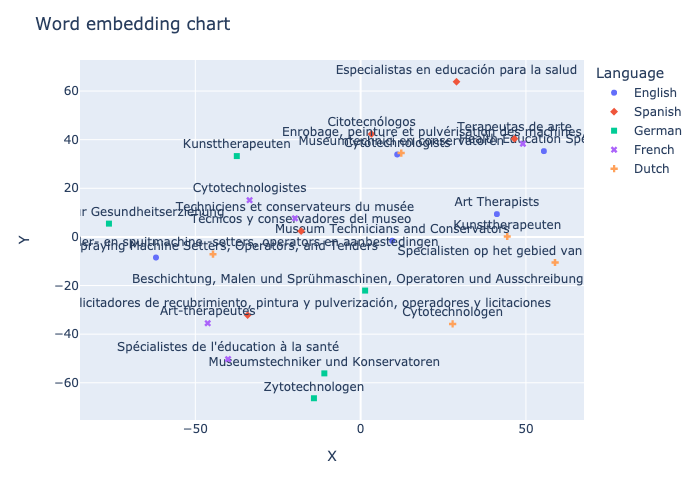
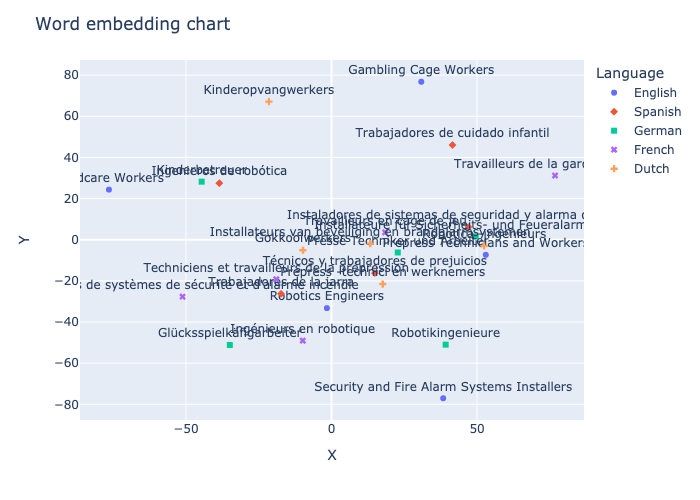
Multi universal sentence embeddings error rectified

diff --git a/project/main.py b/project/main.py
@@ -1,10 +1,39 @@
-from project import *
-from project.src.evaluation import cluster_distributional_analysis
-from project.utils.data_operations import get_data_from_file
+import pandas as pd
+from tensorflow.python.keras.utils.np_utils import to_categorical
+import tensorflow_hub as hub
 
+from project import *
+from project.src import data_preprocessing
+from project.src.evaluation import cluster_distributional_analysis
+from project.src.load_embeddings import Vectors
+from project.src.model_building import Model_Building
+from project.src.training_and_evaluation import train
+from project.utils.data_operations import get_data_from_file
+from project.utils.plotting import visualize_word_vectors, get_sample_index
+
+print("-------Data preprocessing stated------")
+
+#data_preprocessing.preprocess_data("project/data/Occupation Data.xlsx","project/data/Job Zones.xlsx")
+
+print("----- New file created after preprocessing --------" )
+
+
+print("Visualize word embeddings in 2-D space")
+index =  get_sample_index()
+visualize_word_vectors("Multi_Bert","title",index)
+visualize_word_vectors("Xlmr_Bert","title",index)
+visualize_word_vectors("M_USE","title",index)
+visualize_word_vectors("MDistill","title",index)
+#visualize_word_vectors("Multi_Bert","description",index)
+#visualize_word_vectors("Xlmr_Bert","description",index)
+#visualize_word_vectors("M_USE","description",index)
+#visualize_word_vectors("MDistill","description",index)
+
+
+print("-------Started Multi cluster analysis of Embeddings----------")
 #### Multi cluster distribution Analysis
 
-for model in models:
+'''for model in models:
     title = []
     description =[]
     for lang in langauges:
@@ -18,23 +47,21 @@ for model in models:
         title.append(t)
         description.append(des)
 
+    cluster_distributional_analysis(title,10,model,"Title","spectral")
+    cluster_distributional_analysis(description,10,model,"Description","spectral")
+
     cluster_distributional_analysis(title,10,model,"Title")
-    cluster_distributional_analysis(description,15,model,"Description")
-'''print("-------Data preprocessing stated------")
+    cluster_distributional_analysis(description,10,model,"Description")'''
 
-#data_preprocessing.preprocess_data("project/data/Occupation Data.xlsx","project/data/Job Zones.xlsx")
-
-print("----- New file created after preprocessing --------" )
-
-print("Visualize word embeddings in 2-D space")
-df = pd.read_csv("/Users/harsharenkila/PycharmProjects/ANLP/project/embeddings/FastText_dutch_data.csv")
-index = df.sample(5, replace=False).index
-del df
-visualize_word_vectors("Multi_Bert","title",index)
-visualize_word_vectors("Xlmr_Bert","title",index)
-visualize_word_vectors("MUSE","title",index)
-
-print("----------------Model Architecture defining---------------- ")
+print("-------completed------")
+'''embed = hub.load("https://tfhub.dev/google/universal-sentence-encoder-multilingual/3")
+english_sentences = ["dog", "Puppies are nice.", "I enjoy taking long walks along the beach with my dog."]
+en_result = embed(english_sentences)
+print(en_result)'''
+#model = Vectors("sadakmed/distiluse-base-multilingual-cased-v1","harsha the great")
+#model.load_sentence_transformer_model()
+#print(model.encode_text())
+'''print("----------------Model Architecture defining---------------- ")
 models = Model_Building()
 usemodel = models.USEmodel()
 

diff --git a/project/src/evaluation.py b/project/src/evaluation.py
@@ -1,10 +1,10 @@
-import sklearn
 from project import *
 from sklearn.mixture import GaussianMixture
+from sklearn.cluster import KMeans
 from project.utils.plotting import plot_bar_graph
 
-def cluster_distributional_analysis(embeddings_list,no_of_clusters,model_name,column):
-    cluster_dict = multi_cluster_analysis(embeddings_list,no_of_clusters)
+def cluster_distributional_analysis(embeddings_list,no_of_clusters,model_name,column,clustering_model=None):
+    cluster_dict = multi_cluster_analysis(embeddings_list,no_of_clusters,clustering_model)
     language_pairs = [(a, b) for idx, a in enumerate(langauges) for b in langauges[idx + 1:]]
     langauge = []
     cluster_score=[]
@@ -16,17 +16,20 @@ def cluster_distributional_analysis(embeddings_list,no_of_clusters,model_name,co
                 if(cluster_dict[i][lang_a]==cluster_dict[i][lang_b]):
                     count+=1
             cluster_score.append(count)
-    plot_bar_graph(langauge,cluster_score,model_name,column)
+    plot_bar_graph(langauge,cluster_score,model_name,column,clustering_model)
 
 
-def multi_cluster_analysis(embeddings_list,no_of_clusters):
-    gmm = GaussianMixture(n_components=no_of_clusters,random_state=42,init_params="k-means++").fit(embeddings_list[0])
-    print(gmm.means_)
-
+def multi_cluster_analysis(embeddings_list,no_of_clusters,model:str=None):
+    if(model == None):
+        clustering = GaussianMixture(n_components=no_of_clusters,random_state=0,init_params="k-means++").fit(embeddings_list[0])
+    else:
+        clustering = KMeans(n_clusters=no_of_clusters,init="k-means++",random_state=0).fit(embeddings_list[0])
+        #clustering =SpectralClustering(n_clusters=no_of_clusters,assign_labels="discretize",random_state=0).fit(embeddings_list[0])
     lang_dict = {0:"english",1:"french", 2:"spanish",3:"dutch",4:"german"}
     final_dict = {}
+    print(model)
     for i in range(0,len(embeddings_list)):
-        predict = gmm.predict(embeddings_list[i])
+        predict = clustering.predict(embeddings_list[i])
         for j in range(len(embeddings_list[0])):
             if( j in final_dict):
                 if(len(final_dict)>0):

diff --git a/project/utils/plotting.py b/project/utils/plotting.py
@@ -18,8 +18,14 @@ def plot_training_val_curves(history,model_name):
     plt.show()
 
 
+def get_sample_index():
+    df = pd.read_csv("/Users/harsharenkila/PycharmProjects/ANLP/project/embeddings/FastText_dutch_data.csv")
+    index = df.sample(5, replace=False).index
+    del df
+    return index
 #https://medium.com/analytics-vidhya/word-embedding-using-python-63770334841
 def visualize_word_vectors(model_name,column,index):
+
     eng_txt,eng_embedding = get_visualize_data(model=model_name,language="english",column=column)
     spa_txt,spa_embedding = get_visualize_data(model=model_name,language="spanish",column=column)
     ger_txt,ger_embedding = get_visualize_data(model=model_name,language="german",column=column)
@@ -81,12 +87,16 @@ def visualize_word_vectors(model_name,column,index):
     fig.show()
 
 
-def plot_bar_graph(langs,cluster_values,model_name,column):
+def plot_bar_graph(langs,cluster_values,model_name,column,clustering_model):
     fig = plt.figure()
     plt.bar(langs, cluster_values,color ='maroon',
         width = 0.4)
     plt.xlabel("Langauage pairs")
     plt.ylabel("No. of data points have same cluster")
     plt.title("{} {} Multi cluster analysis".format(model_name,column))
-    plt.savefig("/Users/harsharenkila/PycharmProjects/ANLP/project/output/cluster_plots/{}_{}_cluster_plot.png".format(model_name,column))
+    if clustering_model == None:
+        clustering_model = "GMM"
+    else:
+        clustering_model = "K_Means"
+    plt.savefig("/Users/harsharenkila/PycharmProjects/ANLP/project/output/cluster_plots/{}_{}_{}_cluster_plot.png".format(model_name,column,clustering_model))
     #plt.show()

diff --git a/project/src/load_embeddings.py b/project/src/load_embeddings.py
@@ -1,0 +1,38 @@
+from sentence_transformers import SentenceTransformer
+import fasttext
+
+class Vectors:
+    def __init__(self,model_name,sentences,language:str=None):
+        self.model_name = model_name
+        self.language = language
+        self.sentences = sentences
+
+    def load_sentence_transformer_model(self):
+        self.model = SentenceTransformer(self.model_name)
+        print(self.model)
+    def encode_text(self):
+        if self.language != None:
+            if(isinstance(self.sentences,list)):
+                embed_list  = []
+                for sent in self.sentences:
+                    embed_list.append(self.fasttext_model.get_word_vector(sent))
+                return embed_list
+            else:
+
+                return self.fasttext_model.get_word_vector(self.sentences)
+        else:
+
+            return self.model.encode(sentences=self.sentences)
+
+
+    def load_fastext_model(self):
+        if(self.language == "english"):
+            self.fasttext_model = fasttext.load_model('/project/fasttext_models/cc.en.300.bin')
+        if (self.language == "spanish"):
+            self.fasttext_model = fasttext.load_model('/project/fasttext_models/cc.es.300.bin')
+        if (self.language == "dutch"):
+            self.fasttext_model = fasttext.load_model('/project/fasttext_models/cc.nl.300.bin')
+        if (self.language == "german"):
+            self.fasttext_model = fasttext.load_model('/project/fasttext_models/cc.de.300.bin')
+        if (self.language == "french"):
+            self.fasttext_model = fasttext.load_model('/project/fasttext_models/cc.fr.300.bin')

diff --git a/project/src/multilingual_analysis.py b/project/src/multilingual_analysis.py
@@ -29,7 +29,7 @@ class MultilingualAnalysis:
                 #cossim_dict["{}_{}_{}".format(language, lang, column)] = cosine_similarity(literal_eval(df["{}_{}_embeddings".format(lang,column)]),literal_eval(df_lang["{}_{}_embeddings".format(language,column)]))
                 for i in range(len(df)):
                    cossim_dict["{}_{}_{}".format(language, lang,column)].append(self.cosine_similarity(np.array(literal_eval(df["{}_{}_embeddings".format(lang,column)].iloc[i])),np.array(literal_eval(df_lang["{}_{}_embeddings".format(language,column)].iloc[i]))))
-        self.plot_density_distribution(cossim_dict,"/Users/harsharenkila/PycharmProjects/ANLP/project/output/{}_{}.png".format("MUSE",column),camel_case(column))
+        self.plot_density_distribution(cossim_dict,"/Users/harsharenkila/PycharmProjects/ANLP/project/output/cosine_sim_analysis/{}_{}.png".format("M_USE",column),camel_case(column))
         return cossim_dict
 
     def plot_density_distribution(self,cossim_dict,path,column):
@@ -51,7 +51,7 @@ class MultilingualAnalysis:
         plt.savefig(path)
         plt.show()
 
-path = "/Users/harsharenkila/PycharmProjects/ANLP/project/embeddings/MUSE_{}_data.csv"
+path = "/Users/harsharenkila/PycharmProjects/ANLP/project/embeddings/M_USE_{}_data.csv"
 kk = MultilingualAnalysis(path)
 
 kk.vectorspace_analysis("english","title")

diff --git a/project/__init__.py b/project/__init__.py
@@ -5,7 +5,7 @@ from re import sub
 langauges = ["english", "french", "spanish","dutch", "german"]
 
 language_code ={"english":"en", "french":"fr", "spanish":"es","dutch":"nl", "german":"de"}
-models  = ["Xlmr_Bert","MUSE","Multi_Bert"]
+models  = ["Xlmr_Bert","M_USE","Multi_Bert","MDistill"]
 
 def camel_case(s):
   s = sub(r"(_|-)+", " ", s).title().replace(" ", "")
